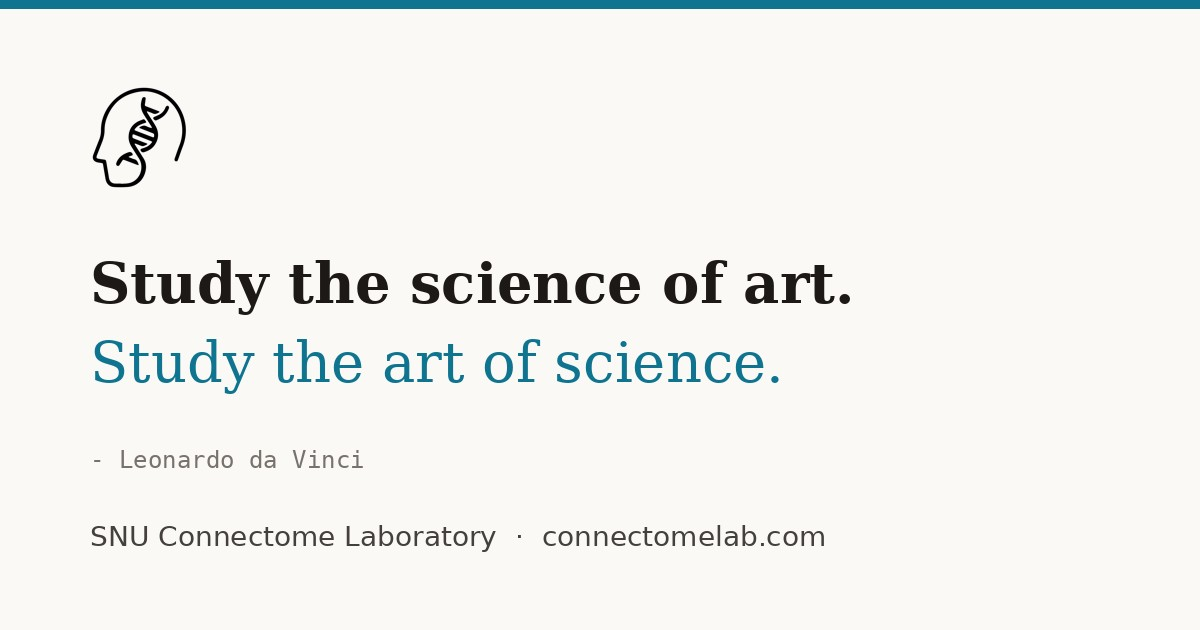
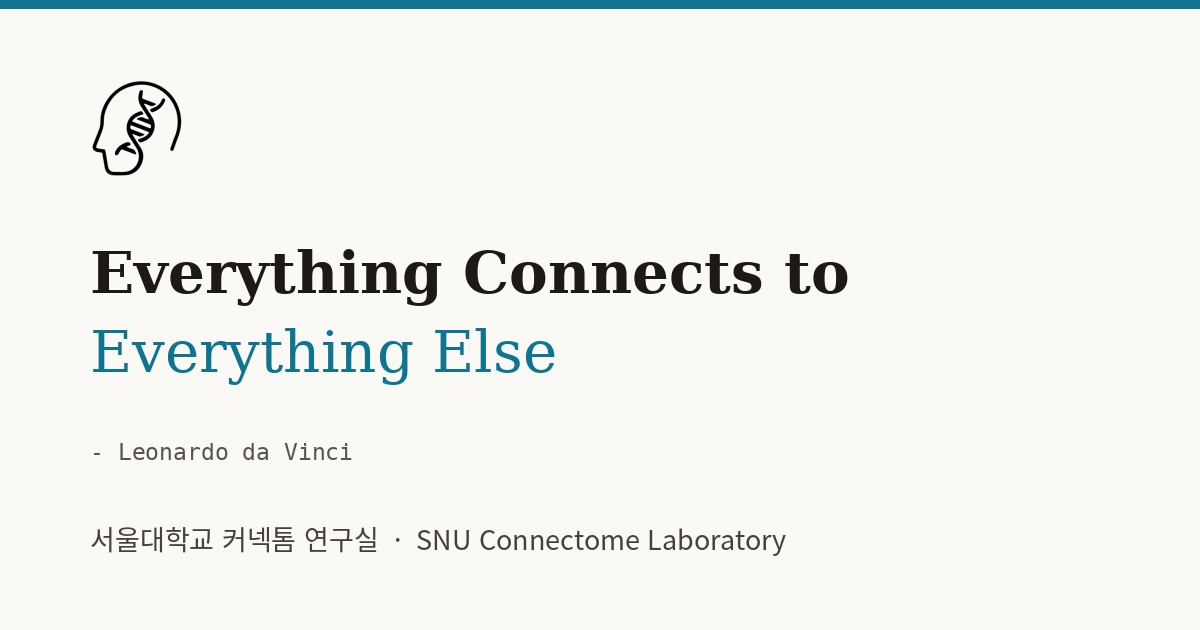
feat: Korean becomes the default language; new motto
Language routing inverts. Korean now lives at the root — www.connectomelab.com
is Korean — and English moves under /en/. The old /ko/* paths are kept alive as
redirects declared in astro.config.mjs, so existing links and anything already
indexed still land correctly. Every page now emits canonical + hreflang
alternates with Korean as x-default.

Note the consequence, since it is not reversible by a redirect: URLs like
/research that used to serve English now serve Korean. An international visitor
following an old link lands on the Korean page and has to click through to
/en/research. That is the intended trade of making Korean the default.

Motto: "Study the science of art. Study the art of science." becomes
"Everything Connects to Everything Else" — the closing clause of the same da
Vinci passage, and the one that actually describes a connectome. It stays in
English on both language trees. Set across two lines so the two "Everything"s
align vertically, which is the whole point of the sentence. The OG image is
regenerated to match.

Also fixed, found while verifying the above:
- scripts/cutover.sh reported "not serving this build" while the site was in
  fact live. Two causes. Its marker was headline copy ("Six networks, one lab")
  that another change had already edited away — it now fingerprints the Astro
  build (/_astro/) instead, which no headline edit can invalidate. And the
  check was `curl | grep -q`: grep exits on first match, curl dies of SIGPIPE,
[…]

diff --git a/src/i18n/ui.ts b/src/i18n/ui.ts
@@ -25,7 +25,7 @@ export const ui = {
 
     // Home
     'home.eyebrow': 'Seoul National University · Connectome Laboratory',
-    'home.mottoCredit': '— Leonardo da Vinci, the lab’s founding instruction',
+    'home.mottoCredit': '— Leonardo da Vinci, the lab’s founding conviction',
     'home.heroDesc':
       'We study how the brain’s connections give rise to mind — cognition, emotion, development, and psychiatric resilience. Our instruments are brain foundation models, multimodal genetics, and quantum machine learning; our conviction is that seeing well is a scientific skill.',
     'home.exploreCta': 'Explore our research',
@@ -181,7 +181,7 @@ export const ui = {
 
     // Home
     'home.eyebrow': '서울대학교 · 커넥톰 연구실',
-    'home.mottoCredit': '— 레오나르도 다빈치, 연구실이 따르는 가르침',
+    'home.mottoCredit': '— 레오나르도 다빈치. 모든 것은 서로 연결되어 있다.',
     'home.heroDesc':
       '뇌의 연결이 어떻게 마음을 만들어내는지 연구합니다. 인지와 정서, 발달, 그리고 정신건강의 회복탄력성까지가 그 대상입니다. 뇌 파운데이션 모델과 멀티모달 유전체학, 양자 머신러닝이 우리의 도구이며, ‘잘 보는 것’이야말로 과학적 능력이라 믿습니다.',
     'home.exploreCta': '연구 살펴보기',
@@ -320,15 +320,18 @@ export function useTranslations(lang: Lang) {
   };
 }
 
-/** Map a pathname to its counterpart in the other language. */
+/**
+ * Map a pathname to its counterpart in the other language.
+ * Korean is the default locale and sits at the root; English is under /en/.
+ */
 export function altLangPath(pathname: string, lang: Lang): string {
-  if (lang === 'en') {
-    return pathname === '/' ? '/ko/' : `/ko${pathname}`;
+  if (lang === 'ko') {
+    return pathname === '/' ? '/en/' : `/en${pathname}`;
   }
-  const stripped = pathname.replace(/^\/ko/, '');
+  const stripped = pathname.replace(/^\/en/, '');
   return stripped === '' || stripped === '/' ? '/' : stripped;
 }
 
 export function localePath(lang: Lang, path: string): string {
-  return lang === 'ko' ? `/ko${path === '/' ? '/' : path}` : path;
+  return lang === 'en' ? `/en${path === '/' ? '/' : path}` : path;
 }

diff --git a/README.md b/README.md
@@ -5,7 +5,7 @@ Official website of the **Connectome Laboratory** at **Seoul National University
 🔗 **Website**: [https://www.connectomelab.com/](https://www.connectomelab.com/)
 🏛 **Affiliations**: Department of Psychology • Interdisciplinary Program in AI (IPAI) • Department of Brain and Cognitive Sciences (BCS)
 
-> *"Study the science of art. Study the art of science."* — Leonardo da Vinci
+> *"Everything Connects to Everything Else."* — Leonardo da Vinci
 
 ---
 
@@ -23,10 +23,13 @@ the warmth; the cyan accent carries the lab's technical identity.
    - An illustrative 3D visualization of the brain networks the lab studies
      (labeled as a sketch, not anatomical data). Nodes link to real lab projects.
 
-2. **📚 Full Publication Archive (auto-synced)**
-   - `scripts/sync_scholar.py` pulls the complete record (~145 papers, 2008–present)
-     from the OpenAlex API with cursor pagination, DOI/title dedup against
-     hand-curated entries, and a member-allowlist for author highlighting.
+2. **📚 Publication Archive (auto-synced)**
+   - `scripts/sync_scholar.py` pulls the record (102 entries, 76 of them
+     peer-reviewed, 2008–present) from the OpenAlex API with cursor pagination.
+     It classifies each entry as journal / conference / workshop / preprint,
+     excludes conference-abstract supplements and errata, fuzzy-dedups
+     preprint-vs-journal versions of the same paper, and highlights authors
+     from a member allowlist rather than by surname.
 
 3. **⚡ Research Radar (weekly arXiv scan)**
    - `scripts/update_research_radar.py` scans arXiv weekly for new papers in brain
@@ -107,18 +110,34 @@ the built site in the same workflow (a `GITHUB_TOKEN` push cannot trigger
 
 ---
 
+## Languages & routing
+
+**Korean is the default language and lives at the root**; English is under `/en/`.
+
+| | Korean | English |
+|---|---|---|
+| Home | `/` | `/en/` |
+| Research | `/research` | `/en/research` |
+
+UI strings live in `src/i18n/ui.ts`; page content is chosen by a `lang` field on
+each content entry (`*-ko.md` files carry `lang: "ko"`). Every page emits
+`hreflang` alternates with Korean as `x-default`. The site previously served
+Korean under `/ko/`, so those paths are kept alive as redirects declared in
+`astro.config.mjs`.
+
+Korean typography is not simply Latin typography with different glyphs — see
+`src/styles/global.css`, where `word-break: keep-all`, negative display
+tracking, and the `:lang(ko)` overrides are documented with the reasons.
+
 ## Custom Domain & GitHub Pages
 
 1. Repository **Settings → Pages**: Source = **GitHub Actions**; Custom domain =
    `www.connectomelab.com` with **Enforce HTTPS**.
-2. DNS: `CNAME` record `www` → `snuconnectome.github.io`.
+2. DNS: `CNAME` record `www` → `transconnectome.github.io`.
 
-> ⚠ **Cutover status**: GitHub Pages is deployed and configured for
-> `www.connectomelab.com` (via `public/CNAME`), but DNS still points that domain at
-> the old Google Sites page — which therefore stays live, untouched. The final step
-> is a single DNS change at the registrar: set the `www` CNAME record to
-> `snuconnectome.github.io`. Until then, preview locally with `npm run preview`
-> (on DGX: `ssh -N -L 4321:127.0.0.1:4321 dgx-spark`, then open `http://localhost:4321`).
+The DNS cutover from the old Google Sites page is done and the site is live.
+`scripts/cutover.sh --status` reports the current DNS, custom-domain and
+certificate state at any time.
 
 ---
 
